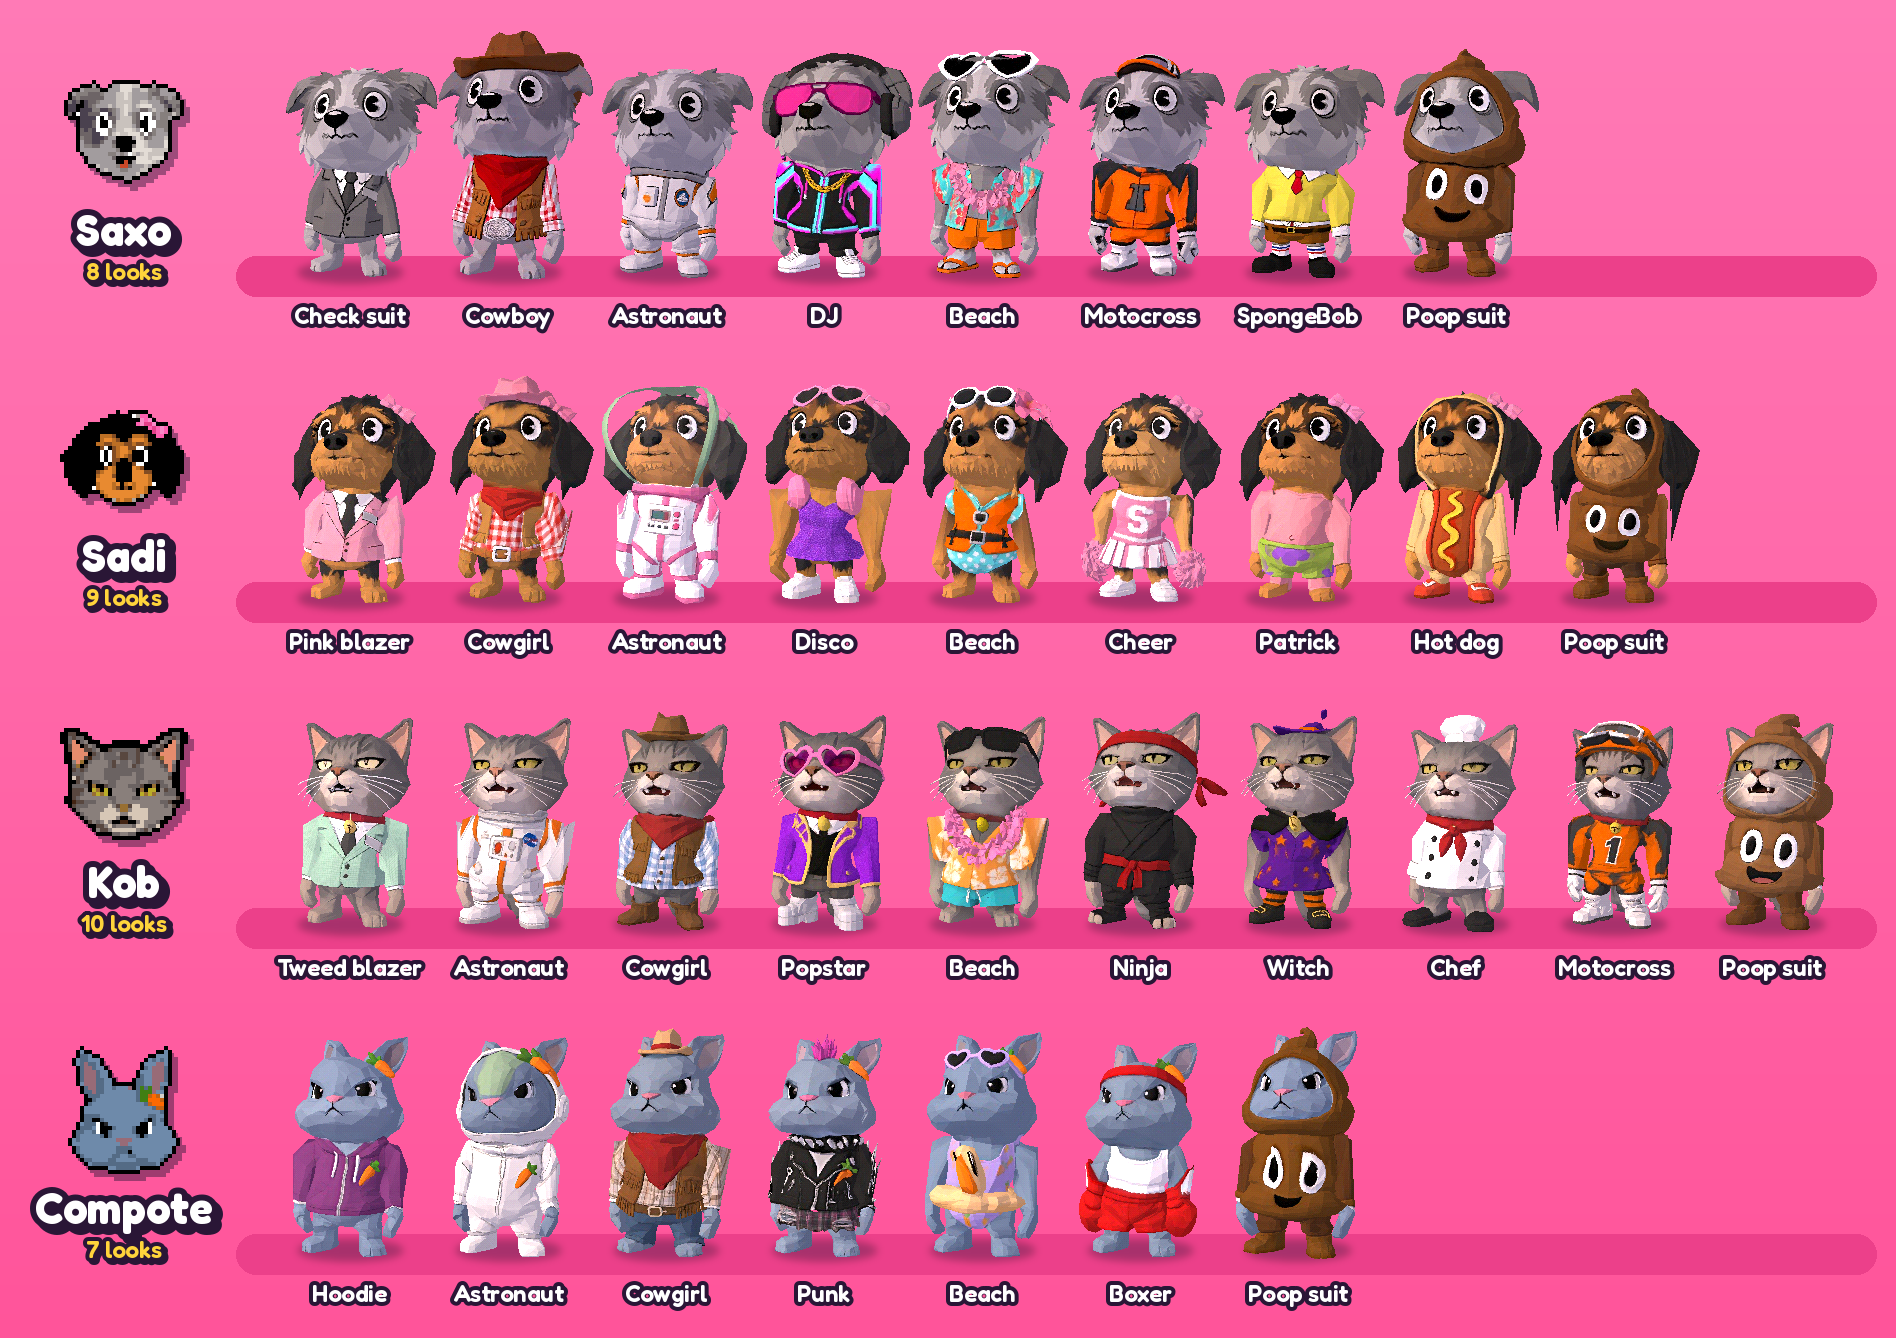
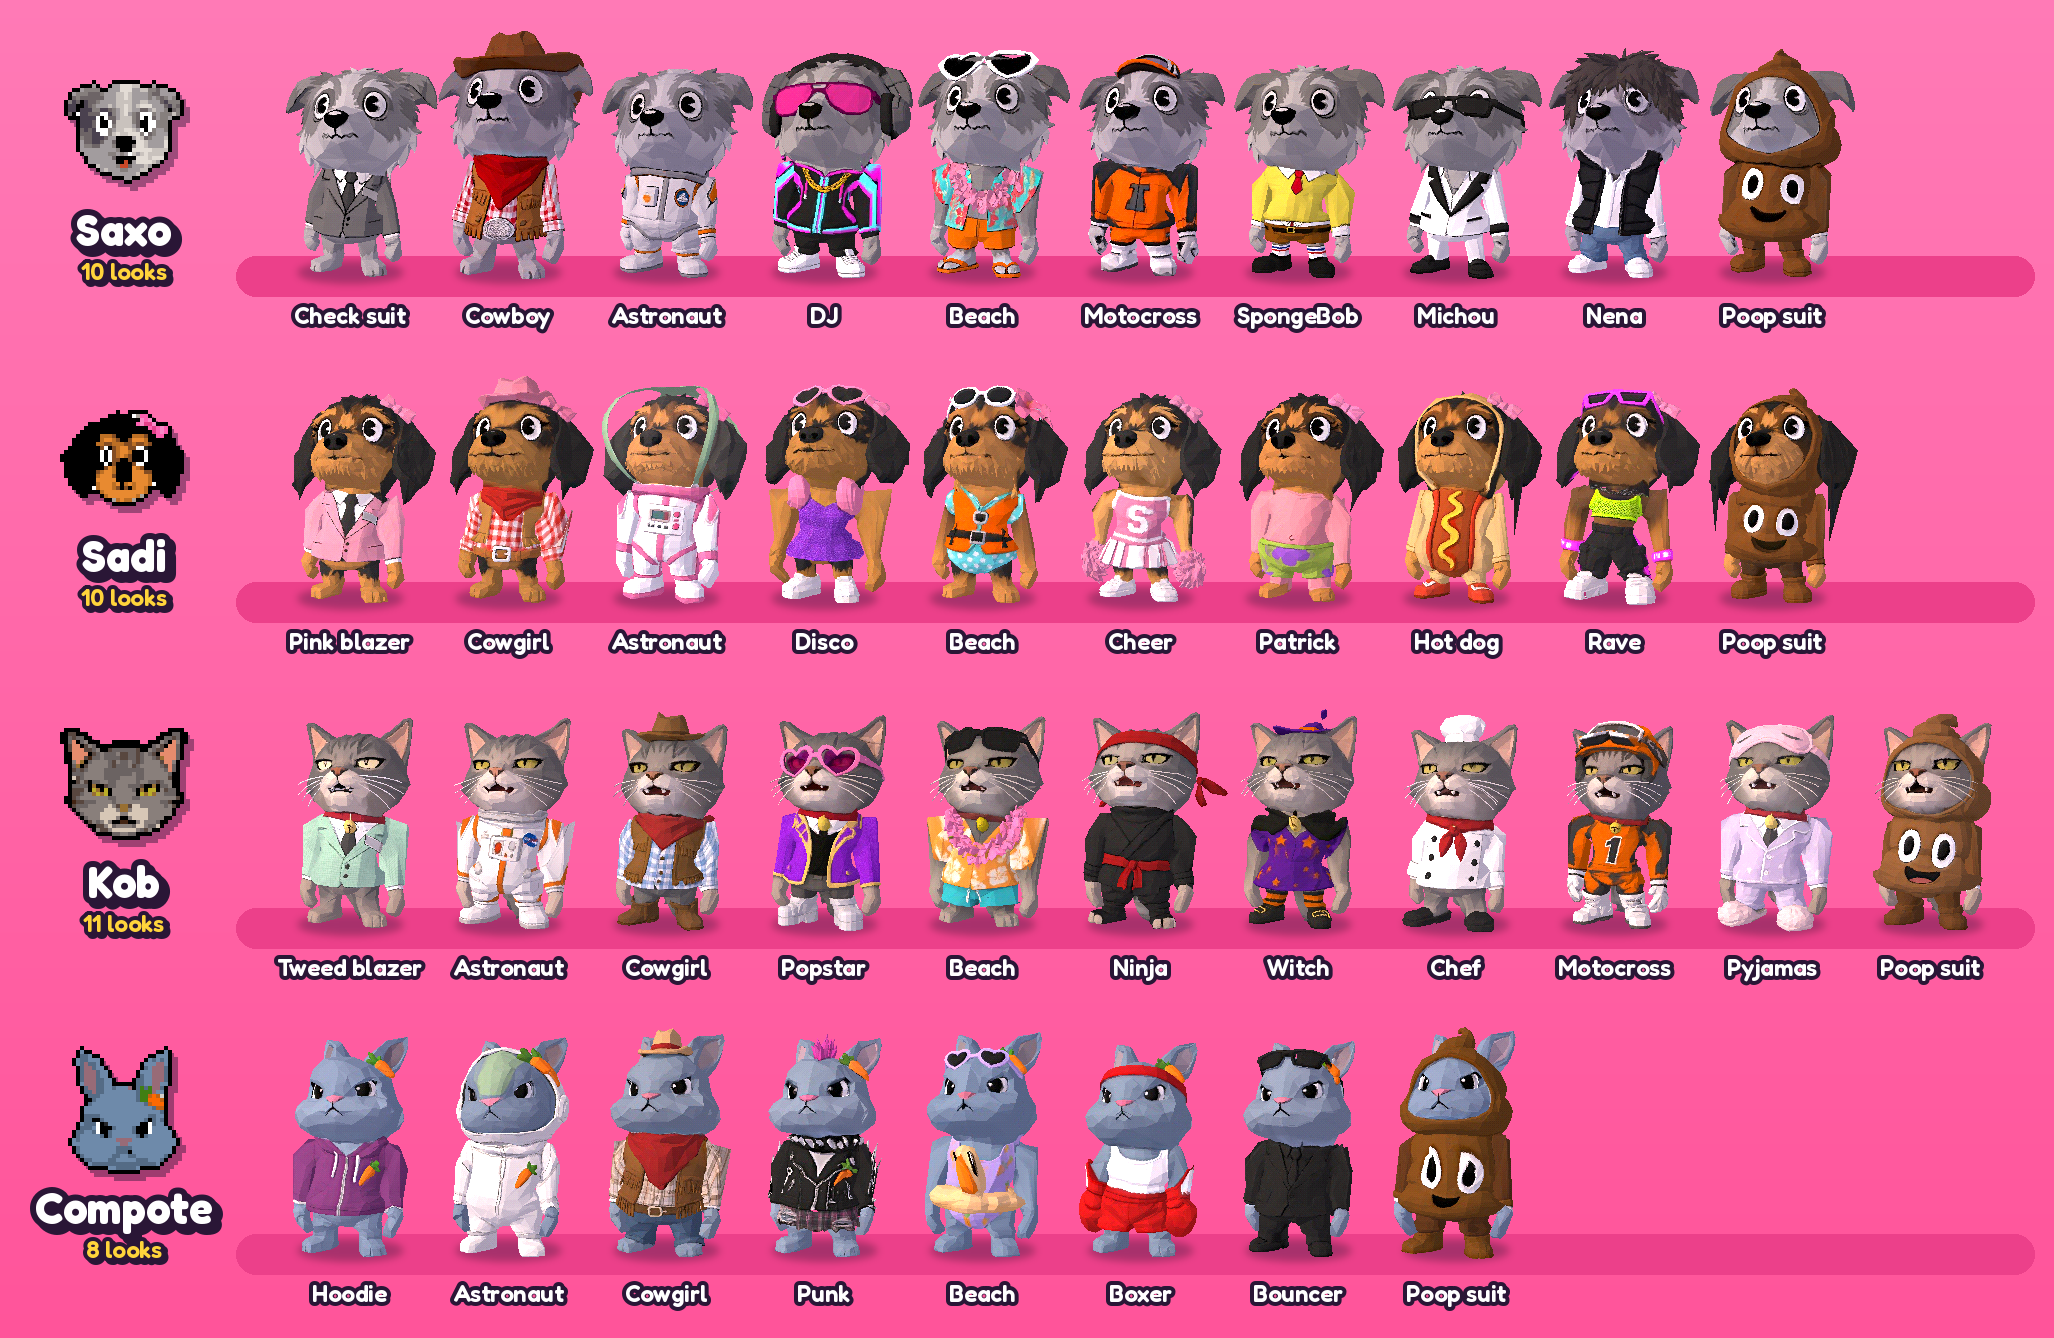
Sync with 2e96d76: docs(readme): the wardrobe image shows the five newer looks

diff --git a/README.md b/README.md
@@ -79,7 +79,7 @@
 </table>
 
 <p align="center">
-  <img src="docs/readme/wardrobe.png" width="100%" alt="The wardrobe: every look of Saxo, Sadi, Kob and Compote, from cowboy and astronaut to SpongeBob, hot dog and the poop suit">
+  <img src="docs/readme/wardrobe.png" width="100%" alt="The wardrobe: every look of Saxo, Sadi, Kob and Compote, from cowboy and astronaut to SpongeBob, Michou's white tux, Kob's pyjamas and the poop suit">
 </p>
 
 Each map dresses the cast for the occasion: astronaut suits on the moon, cowboy hats out west, SpongeBob and Patrick
